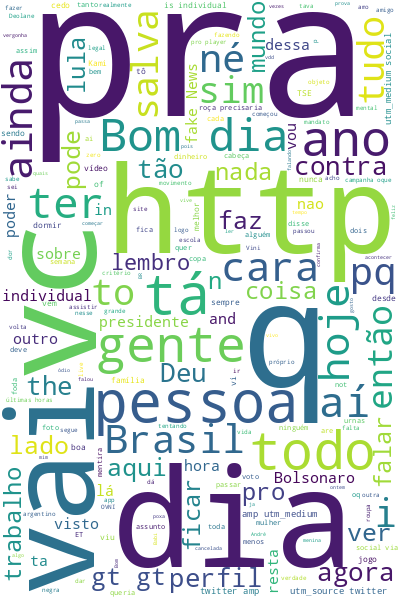
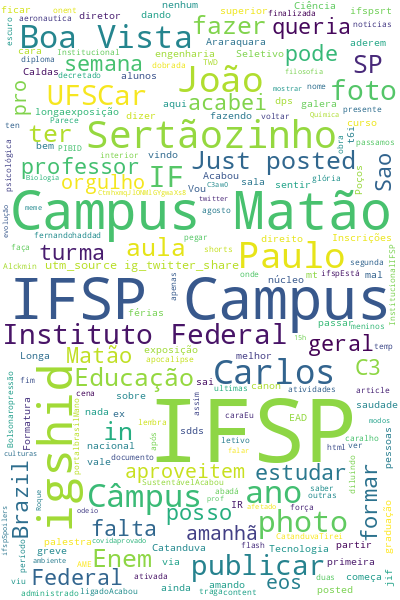
Please enter the commit message for your changes. Lines starting  with '' will be ignored, and an empty message aborts the commit.
No ramo main
 Your branch is up to date with 'origin/main'.

 Mudanças a serem submetidas:
	modified:   .gitignore
	modified:   cloud.png
	modified:   tweepy/__init__.py
	deleted:    tweepy/img/cloud.png

diff --git a/tweepy/__init__.py b/tweepy/__init__.py
@@ -12,8 +12,8 @@ import re
 
 PATH_GECKODRIVER_WINDOWS = Path("webdriver/geckodriver_windows.bin").absolute()
 PATH_GECKODRIVER_LINUX   = Path("webdriver/geckodriver_linux.bin").absolute()
-PATH_PNG_OUTPUT          = Path("img/cloud.png").absolute()
-FETCH_TWEETIES           = 200
+PATH_PNG_OUTPUT          = Path("cloud.png").absolute()
+FETCH_TWEETS             = 100
 
 service = None
 if(platform.system() == "Windows"):
@@ -58,23 +58,30 @@ def wait_load():
         wait_load = wait_element("span", ["What’s happening"])
         sleep(1)
 
-def main(latitude, longitude, raio):
+def main(latitude, longitude, raio, palavra_chave):
     args = {
         "latitude"  : latitude
     ,   "longitude" : longitude
     ,   "raio"      : raio
     }
-    url = f"https://twitter.com/search?q=geocode:{args['latitude']},{args['longitude']},{args['raio']}km&src=typed_query&f=live&lang=en-us"
+    url = f"https://twitter.com/search?q=geocode:{args['latitude']},{args['longitude']},{args['raio']}km {palavra_chave}&src=typed_query&f=live&lang=en-us"
     driver.get(url)
 
     wait_load()
 
     all_txt = ""
-    for t in gen_twittes_txt(FETCH_TWEETIES):
+    for t in gen_twittes_txt(FETCH_TWEETS):
+        print("=============================================")
+        print(t)
         all_txt += t
+        print("=============================================")
+
+    driver.close()
 
     nltk.download('stopwords')
     stopwords = nltk.corpus.stopwords.words('portuguese')
+    for word in "to;dia;hoje;lá;pra;vai;todo;vc;q;todo;i;amp;hj;n;utm_medium;p;tá;www1;ta;pq;http;https;Bom dia;tô;mano;D;então;X;Alguém;dá;fez;b".split(";"):
+        stopwords.append(word)
 
     cloud = WordCloud(
         background_color="white"
@@ -87,6 +94,7 @@ def main(latitude, longitude, raio):
 
     cloud.to_file(PATH_PNG_OUTPUT)
 
-    driver.close()
+main( -21.789341037025892, -48.17630560469828, 100, "ifsp")
 
-main( -21.789341037025892, -48.17630560469828, 10 )
+# TODO: Relacionar as palavras individuais com os twitties em si.
+# TODO: Arrumar looping infinito quando os twitties acabam.
